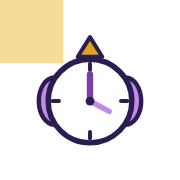
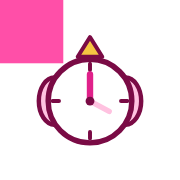
Add files via upload

Changed region(s): [[0.0, 0.0, 0.8056, 0.8333]]

diff --git a/index.html b/index.html
@@ -5,7 +5,7 @@
 <meta name="viewport" content="width=device-width, initial-scale=1">
 <title>Les heures de Nisha</title>
 <meta name="description" content="Calculer l'écart entre deux heures et additionner des durées.">
-<meta name="theme-color" content="#fbf5ea">
+<meta name="theme-color" content="#ffe6f2">
 <meta name="apple-mobile-web-app-capable" content="yes">
 <meta name="mobile-web-app-capable" content="yes">
 <meta name="apple-mobile-web-app-status-bar-style" content="default">
@@ -18,20 +18,20 @@
 <link rel="stylesheet" href="https://fonts.googleapis.com/css2?family=Mitr:wght@500;600&family=Prompt:wght@400;500;600&display=swap">
 <style>
 :root {
-  --bg: #fbf5ea;
-  --card: #fffdf8;
-  --ink: #2b1d52;
-  --soft: #5d4f86;
-  --violet: #f6dc96;
-  --pink: #c08ae6;
-  --blush: #f4ead2;
-  --lilac: #5f2d8c;
+  --bg: #ffe6f2;
+  --card: #ffffff;
+  --ink: #7a0b45;
+  --soft: #b0306f;
+  --violet: #ff8cc6;
+  --pink: #e0218a;
+  --blush: #ffd1e8;
+  --lilac: #9c0f5f;
   --f-title: "Mitr", "Prompt", system-ui, sans-serif;
   --f-body: "Prompt", system-ui, -apple-system, sans-serif;
-  --tint: #efe3f8;
-  --today: #d9a521;
+  --tint: #ffd6ea;
+  --today: #e0218a;
   --preset: var(--violet);
-  --line: #e3d4a8;
+  --line: #f7b3d6;
   color-scheme: light;
 }
 * { box-sizing: border-box; }
@@ -55,7 +55,7 @@ body {
 }
 h1 {
   margin: 0; font-family: var(--f-title); font-weight: 600; font-size: 36px;
-  line-height: 1.05; color: #7a3fa8; text-wrap: balance;
+  line-height: 1.05; color: #e0218a; text-wrap: balance;
 }
 .head { display: flex; flex-direction: column; gap: 6px; }
 
@@ -121,7 +121,7 @@ input[type="time"] {
   -webkit-appearance: none; appearance: none; display: block; text-align: left; padding: 10px 10px;
 }
 input[type="time"]::-webkit-date-and-time-value { text-align: left; }
-input::placeholder { color: #a197bf; }
+input::placeholder { color: #e58ab8; }
 .dur { display: flex; align-items: center; gap: 8px; }
 .u2 { font-size: 16px; color: var(--soft); }
 
@@ -149,7 +149,7 @@ input::placeholder { color: #a197bf; }
 .btn.minus { background: var(--pink); color: var(--ink); }
 .reset {
   font: 500 15px var(--f-body); padding: 10px; border-radius: 14px;
-  border: 2px dashed #c9b7e3; background: transparent; color: var(--soft); cursor: pointer;
+  border: 2px dashed #f29cc8; background: transparent; color: var(--soft); cursor: pointer;
 }
 
 /* Mes heures */
@@ -227,6 +227,7 @@ input.sm { font-size: 18px; height: 50px; padding: 6px 8px; }
   font: 600 14px var(--f-body); color: var(--ink); background: var(--card); text-decoration: none;
   border: 2px solid var(--ink); border-radius: 999px; padding: 6px 14px;
 }
+.btn.minus, .sign.neg { color: #ffffff; }
 </style>
 </head>
 <body>
@@ -331,29 +332,29 @@ input.sm { font-size: 18px; height: 50px; padding: 6px 8px; }
 
   <div class="cat">
     <svg role="img" aria-label="Un petit éléphant tient une horloge avec sa trompe" width="200" height="160" viewBox="0 0 210 168" fill="none">
-      <path d="M170 104 q16 4 14 22" stroke="#2b1d52" stroke-width="3" stroke-linecap="round"/>
-      <rect x="84" y="124" width="20" height="36" rx="8" fill="#dcd5ec" stroke="#2b1d52" stroke-width="3"/>
-      <rect x="146" y="124" width="20" height="36" rx="8" fill="#dcd5ec" stroke="#2b1d52" stroke-width="3"/>
-      <ellipse cx="128" cy="108" rx="48" ry="36" fill="#dcd5ec" stroke="#2b1d52" stroke-width="3"/>
-      <rect x="106" y="128" width="20" height="34" rx="8" fill="#dcd5ec" stroke="#2b1d52" stroke-width="3"/>
-      <rect x="132" y="128" width="20" height="34" rx="8" fill="#dcd5ec" stroke="#2b1d52" stroke-width="3"/>
-      <path d="M104 78 Q128 70 154 78 L158 112 Q130 120 102 112 Z" fill="#7a3fa8" stroke="#2b1d52" stroke-width="3" stroke-linejoin="round"/>
-      <path d="M106 104 Q130 111 156 104" stroke="#e2ae2c" stroke-width="3" fill="none"/>
-      <path d="M108 112 l3 6 l3 -6 M120 114 l3 6 l3 -6 M132 114 l3 6 l3 -6 M144 112 l3 6 l3 -6" stroke="#e2ae2c" stroke-width="2.4" stroke-linejoin="round" fill="none"/>
-      <path d="M130 84 l6 8 l-6 8 l-6 -8 Z" fill="#e2ae2c" stroke="#2b1d52" stroke-width="2"/>
-      <path d="M42 92 C22 86 14 64 24 50" stroke="#2b1d52" stroke-width="18" stroke-linecap="round" fill="none"/>
-      <path d="M42 92 C22 86 14 64 24 50" stroke="#dcd5ec" stroke-width="11" stroke-linecap="round" fill="none"/>
-      <circle cx="68" cy="80" r="34" fill="#dcd5ec" stroke="#2b1d52" stroke-width="3"/>
-      <ellipse cx="96" cy="84" rx="20" ry="27" fill="#dcd5ec" stroke="#2b1d52" stroke-width="3"/>
-      <ellipse cx="97" cy="85" rx="12" ry="18" fill="#f2c7da"/>
-      <path d="M50 50 L86 50 L68 72 Z" fill="#e2ae2c" stroke="#2b1d52" stroke-width="2.6" stroke-linejoin="round"/>
-      <circle cx="68" cy="58" r="4" fill="#e87fa6" stroke="#2b1d52" stroke-width="1.6"/>
-      <path d="M56 80 q6 -7 12 0" stroke="#2b1d52" stroke-width="3.2" stroke-linecap="round" fill="none"/>
-      <ellipse cx="78" cy="92" rx="7" ry="4.5" fill="#e87fa6" opacity="0.6"/>
-      <path d="M48 104 q4 8 12 6" stroke="#2b1d52" stroke-width="2.6" stroke-linecap="round" fill="none"/>
-      <circle cx="26" cy="34" r="20" fill="#ffffff" stroke="#2b1d52" stroke-width="3"/>
-      <path d="M26 34 L26 22 M26 34 L34 38" stroke="#7a3fa8" stroke-width="3" stroke-linecap="round"/>
-      <circle cx="26" cy="34" r="2.5" fill="#2b1d52"/>
+      <path d="M170 104 q16 4 14 22" stroke="#7a0b45" stroke-width="3" stroke-linecap="round"/>
+      <rect x="84" y="124" width="20" height="36" rx="8" fill="#ffd1e8" stroke="#7a0b45" stroke-width="3"/>
+      <rect x="146" y="124" width="20" height="36" rx="8" fill="#ffd1e8" stroke="#7a0b45" stroke-width="3"/>
+      <ellipse cx="128" cy="108" rx="48" ry="36" fill="#ffd1e8" stroke="#7a0b45" stroke-width="3"/>
+      <rect x="106" y="128" width="20" height="34" rx="8" fill="#ffd1e8" stroke="#7a0b45" stroke-width="3"/>
+      <rect x="132" y="128" width="20" height="34" rx="8" fill="#ffd1e8" stroke="#7a0b45" stroke-width="3"/>
+      <path d="M104 78 Q128 70 154 78 L158 112 Q130 120 102 112 Z" fill="#e0218a" stroke="#7a0b45" stroke-width="3" stroke-linejoin="round"/>
+      <path d="M106 104 Q130 111 156 104" stroke="#f5c542" stroke-width="3" fill="none"/>
+      <path d="M108 112 l3 6 l3 -6 M120 114 l3 6 l3 -6 M132 114 l3 6 l3 -6 M144 112 l3 6 l3 -6" stroke="#f5c542" stroke-width="2.4" stroke-linejoin="round" fill="none"/>
+      <path d="M130 84 l6 8 l-6 8 l-6 -8 Z" fill="#f5c542" stroke="#7a0b45" stroke-width="2"/>
+      <path d="M42 92 C22 86 14 64 24 50" stroke="#7a0b45" stroke-width="18" stroke-linecap="round" fill="none"/>
+      <path d="M42 92 C22 86 14 64 24 50" stroke="#ffd1e8" stroke-width="11" stroke-linecap="round" fill="none"/>
+      <circle cx="68" cy="80" r="34" fill="#ffd1e8" stroke="#7a0b45" stroke-width="3"/>
+      <ellipse cx="96" cy="84" rx="20" ry="27" fill="#ffd1e8" stroke="#7a0b45" stroke-width="3"/>
+      <ellipse cx="97" cy="85" rx="12" ry="18" fill="#ff8cc6"/>
+      <path d="M50 50 L86 50 L68 72 Z" fill="#f5c542" stroke="#7a0b45" stroke-width="2.6" stroke-linejoin="round"/>
+      <circle cx="68" cy="58" r="4" fill="#e0218a" stroke="#7a0b45" stroke-width="1.6"/>
+      <path d="M56 80 q6 -7 12 0" stroke="#7a0b45" stroke-width="3.2" stroke-linecap="round" fill="none"/>
+      <ellipse cx="78" cy="92" rx="7" ry="4.5" fill="#e0218a" opacity="0.6"/>
+      <path d="M48 104 q4 8 12 6" stroke="#7a0b45" stroke-width="2.6" stroke-linecap="round" fill="none"/>
+      <circle cx="26" cy="34" r="20" fill="#ffffff" stroke="#7a0b45" stroke-width="3"/>
+      <path d="M26 34 L26 22 M26 34 L34 38" stroke="#e0218a" stroke-width="3" stroke-linecap="round"/>
+      <circle cx="26" cy="34" r="2.5" fill="#7a0b45"/>
     </svg>
   </div>
   <details class="dev">
@@ -655,7 +656,7 @@ input.sm { font-size: 18px; height: 50px; padding: 6px 8px; }
     h.e = ev.target.value; saveHours(); render();
   });
   /* ---------- Récap en image ---------- */
-  const TH = {"bg": "#fbf5ea", "card": "#fffdf8", "ink": "#2b1d52", "soft": "#5d4f86", "disp": "#f6dc96", "shadow": "#c08ae6", "circle": "#c08ae6", "tint": "#efe3f8", "label": "#5f2d8c", "big": "#2b1d52", "unit": "#5f2d8c", "title": "#7a3fa8", "chipBg": "#2b1d52", "chipFg": "#ffffff", "pillBg": "#f4ead2", "pillFg": "#2b1d52", "pillBorder": "#2b1d52", "fT": "Mitr", "wT": "600", "fB": "Prompt", "pill": "K-Ramen"};
+  const TH = {"bg": "#ffe6f2", "card": "#ffffff", "ink": "#7a0b45", "soft": "#b0306f", "disp": "#ff8cc6", "shadow": "#e0218a", "circle": "#e0218a", "tint": "#ffd6ea", "label": "#9c0f5f", "big": "#7a0b45", "unit": "#9c0f5f", "title": "#e0218a", "chipBg": "#7a0b45", "chipFg": "#ffffff", "pillBg": "#ffd1e8", "pillFg": "#7a0b45", "pillBorder": "#7a0b45", "fT": "Mitr", "wT": "600", "fB": "Prompt", "pill": "K-Ramen"};
   if (document.fonts) [TH.wT + " 60px " + TH.fT, "400 30px " + TH.fB, "500 30px " + TH.fB, "600 30px " + TH.fB]
     .forEach((f) => { try { document.fonts.load(f).catch(() => {}); } catch (e) {} });
   function rrect(c, x, y, w, h, r) {

diff --git a/sw.js b/sw.js
@@ -1,6 +1,6 @@
 // Mode hors ligne : garde une copie de l'appli dans le téléphone.
 // Pour publier une mise à jour, change le numéro de version ci-dessous.
-const CACHE = "heures-nisha-2026-11-13k";
+const CACHE = "heures-nisha-2026-11-13-barbie";
 const FILES = [
   "./",
   "./index.html",
